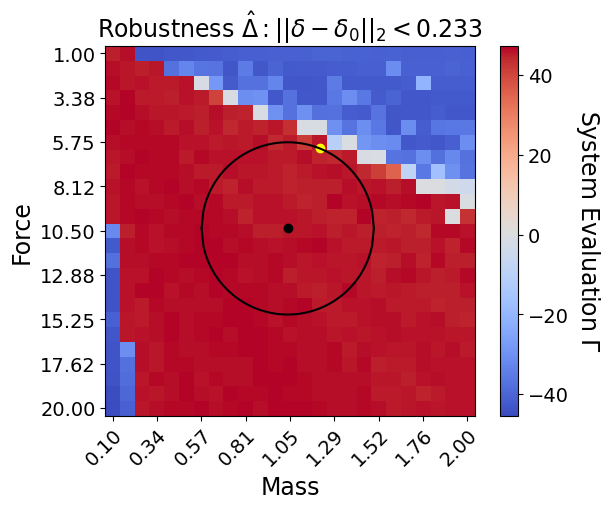
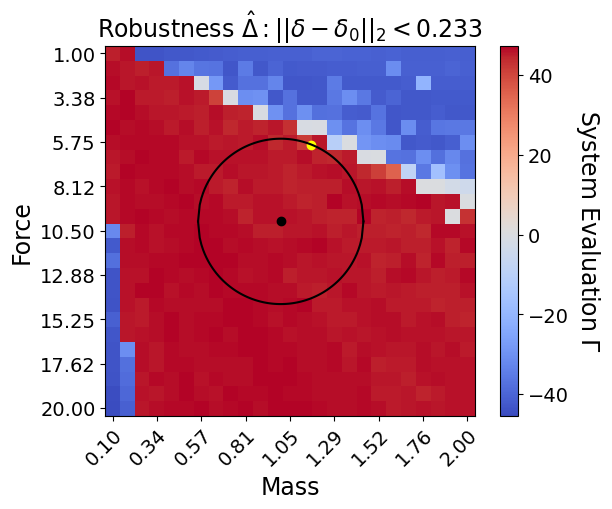
Bug fix in figures of cartpole

diff --git a/scripts/cma/cartpole_dqn.py b/scripts/cma/cartpole_dqn.py
@@ -47,7 +47,7 @@ evaluator.heatmap(
     vmax=0.2
 )
 min_delta = normalize(data1['min_delta'].iat[idx], env.get_dev_bounds())
-plt.scatter(min_delta[0]*25, min_delta[1]*25, color='yellow')
+plt.scatter(min_delta[0]*24, min_delta[1]*24, color='yellow')
 plt.title('Robustness $\hat{\Delta}: ||\delta - \delta_0||_2 < %.3f$' % data1['min_dist'].iat[idx])
 plt.savefig('gifs/cartpole-dqn/fig-robustness.png', bbox_inches='tight')
 # plt.show()
@@ -75,7 +75,7 @@ evaluator.heatmap(
     boundary=data3['min_dist'].iat[idx],
 )
 min_delta = normalize(data3['min_delta'].iat[idx], env.get_dev_bounds())
-plt.scatter(min_delta[0]*25, min_delta[1]*25, color='yellow')
+plt.scatter(min_delta[0]*24, min_delta[1]*24, color='yellow')
 plt.title('Robustness $\hat{\Delta}: ||\delta - \delta_0||_2 < %.3f$' % data3['min_dist'].iat[idx])
 plt.savefig('gifs/cartpole-dqn/fig-robustness-stl2.png', bbox_inches='tight')
 

diff --git a/scripts/cma/cartpole_pid.py b/scripts/cma/cartpole_pid.py
@@ -47,7 +47,7 @@ evaluator.heatmap(
     vmax=0.2
 )
 min_delta = normalize(data1['min_delta'].iat[idx], env.get_dev_bounds())
-plt.scatter(min_delta[0]*25, min_delta[1]*25, color='yellow')
+plt.scatter(min_delta[0]*24, min_delta[1]*24, color='yellow')
 plt.title('Robustness $\hat{\Delta}: ||\delta - \delta_0||_2 < %.3f$' % data1['min_dist'].iat[idx])
 plt.savefig('gifs/cartpole-pid/fig-robustness.png', bbox_inches='tight')
 # plt.show()
@@ -77,7 +77,7 @@ evaluator.heatmap(
     boundary=data3['min_dist'].iat[idx],
 )
 min_delta = normalize(data3['min_delta'].iat[idx], env.get_dev_bounds())
-plt.scatter(min_delta[0]*25, min_delta[1]*25, color='yellow')
+plt.scatter(min_delta[0]*24, min_delta[1]*24, color='yellow')
 plt.title('Robustness $\hat{\Delta}: ||\delta - \delta_0||_2 < %.3f$' % data3['min_dist'].iat[idx])
 plt.savefig('gifs/cartpole-pid/fig-robustness-stl2.png', bbox_inches='tight')
 
